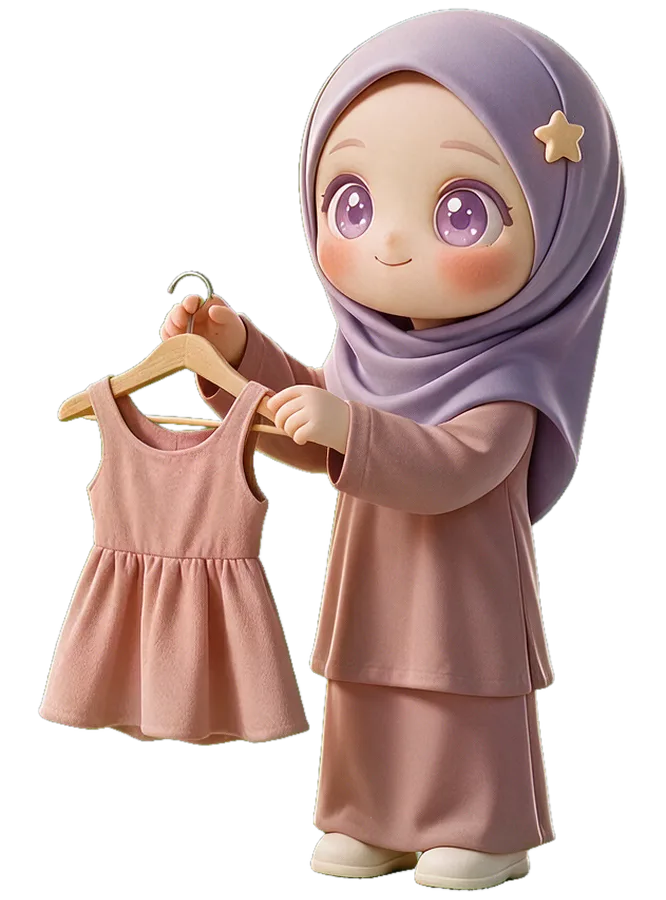
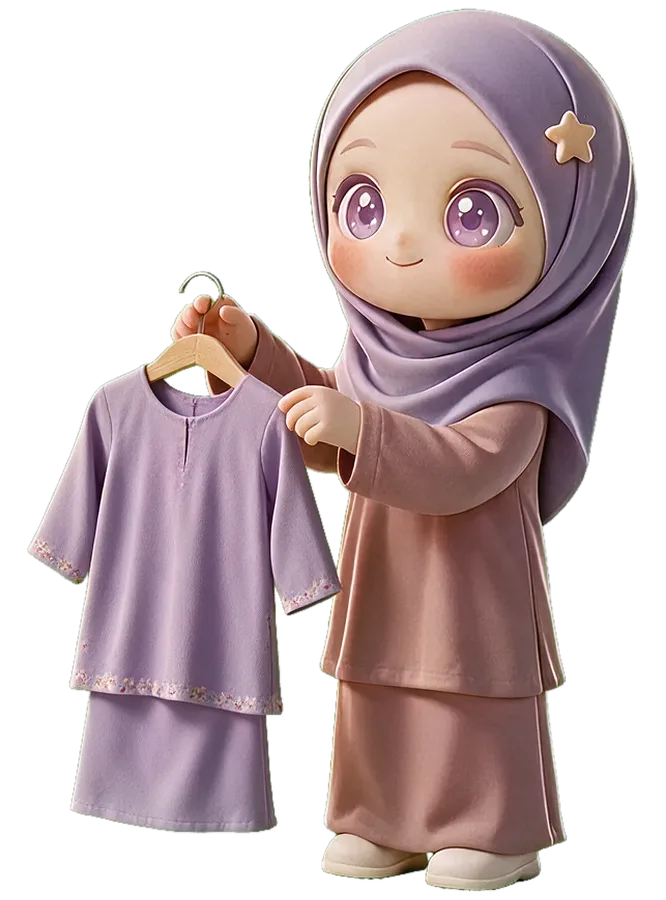
A baju kurung on the hanger in the tudung wardrobe pose
Doubao noted that the tudung outfit's wardrobe pose held a sleeveless dress on its hanger. Jamie chose a redraw: one single-reference render edited only the hanger, which now holds a lilac baju kurung (long-sleeved tunic over an ankle-length skirt). Her figure, size and pose are unchanged. Cache 20i clears the old picture.

diff --git a/sw.js b/sw.js
@@ -2,7 +2,7 @@
  * notification plumbing for reminders. Pages, scripts and styles go network
  * first so a new release is never mixed with an old one; media and fonts are
  * cached first because their file names change when their content does. */
-var VERSION = 'ovumind-2026-10-20h';
+var VERSION = 'ovumind-2026-10-20i';
 var MEDIA = /\.(?:webp|png|jpe?g|gif|svg|mp3|mp4|woff2?|ttf|wasm)(\?.*)?$/i;
 var CODE = /\.(?:css|js|json|html)(\?.*)?$/i;
 

diff --git a/docs/debate/2026-10-20-personas/doubao-tudung-review.md b/docs/debate/2026-10-20-personas/doubao-tudung-review.md
@@ -9,4 +9,6 @@ It was asked to judge as a Malay Muslim woman in Singapore would, plainly, and t
 - **Outfit problems:** act-outfit-tudung: The dress on the hanger is a sleeveless pinafore-style dress, not a baju kurung and not modest if worn alone; the avatar herself is dressed properly.
 - **Other concerns:** none
 
-What was done with the one note: the wardrobe pose (`act-outfit`) holds the same sleeveless dress on a hanger in every outfit, because it is drawn from one pose image. She is not wearing it, and Doubao found her own clothes proper. A version with a baju kurung on the hanger needs a new render go-ahead, so it is left for Jamie to decide.
+What was done with the one note: the wardrobe pose (`act-outfit`) holds the same sleeveless dress on a hanger in every outfit, because it is drawn from one pose image. She is not wearing it, and Doubao found her own clothes proper. A version with a baju kurung on the hanger needs a new render go-ahead, so it was left for Jamie to decide.
+
+Jamie chose the redraw (20 Oct). One single-reference render (Seedream 5.0 pro, seed 77, 31.6 s, no failure) edited only the hanger: the tudung wardrobe pose now holds a lilac baju kurung, a long-sleeved knee-length tunic over an ankle-length skirt with a small floral trim. Her own figure, size and pose are unchanged. The other outfits keep the dress on the hanger.
